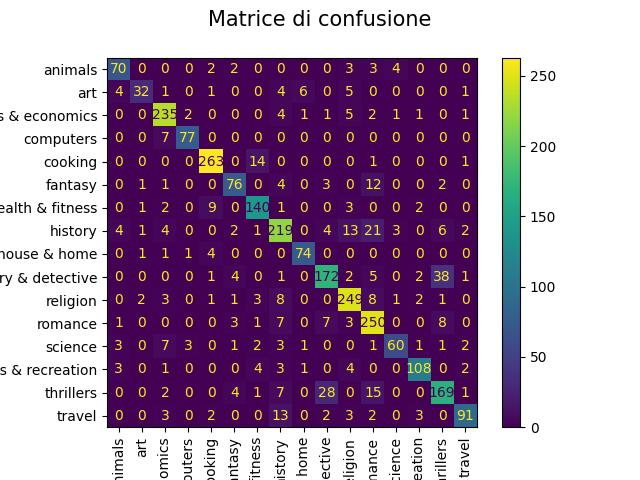
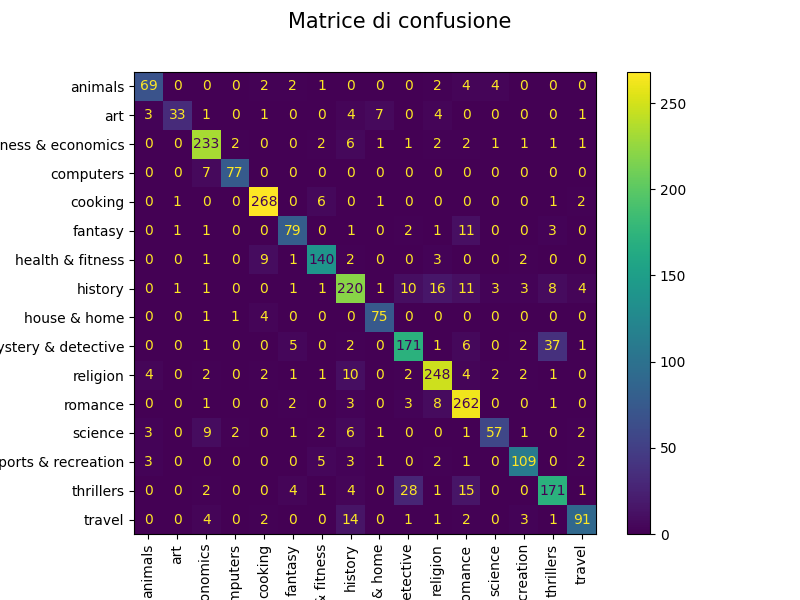
Creato lo script per la demo dei modelli di classificazione

diff --git a/mainDemo.py b/mainDemo.py
@@ -1,0 +1,55 @@
+import pandas as pd
+
+from os import listdir
+from re import sub
+from joblib import load
+
+modelNames = listdir("Models")  # Recupero i nomi dei modelli precedentemente addestrati e serializzati
+modelNames = [sub(r"\.joblib", "", modelName) for modelName in modelNames]
+
+if len(modelNames) == 0:
+    exit("Non sono disponibili modelli di classificazione addestrati")
+
+
+print("Scegliere tra uno dei seguenti modelli addestrati:")
+for modelName in modelNames:
+    print(modelName)
+
+while True:     # Ciclo di richiesta input del giusto nome del modello da utilizzare
+    selection = input("\nNome del modello scelto: ")
+    if selection in modelNames:
+        break
+    else:
+        print("Il nome indicato non è presente nell'elenco riportato")
+
+
+while True:  # Ciclo di richiesta input del numero di libri che si vuole predirre
+    try:
+        rows = int(input("\nIndicare il numero di libri che si intende inserire: "))
+
+        if rows <= 0:
+            print("Indicare un valore superiore o uguale a 1")
+        else:
+            break
+    except ValueError:
+        print("Indicare un numero intero superiore o uguale a 1")
+
+titles = []
+descriptions = []
+authors = []
+for i in range(rows):
+    print(f"\nLibro {i+1}")
+    titles.append(input("Titolo: "))
+    descriptions.append(input("Descrizione: "))
+    authors.append(input("Autori (separati da virgola): "))
+
+print("\nCalcolo delle predizioni...")
+model = load(f"Models/{selection}.joblib")  # Recupero il modello serializzato indicato
+
+toPredict = pd.DataFrame(data = {"Title" : titles, "Description": descriptions, "Authors": authors})
+
+predictions = model.predict(toPredict)
+
+print("\nPredizioni:")
+for index, prediction in enumerate(predictions):
+    print(f"{titles[index]} -> {prediction}")

diff --git a/dataModelling.py b/dataModelling.py
@@ -92,16 +92,16 @@ def trainClassificator(X_train, Y_train, model = "LinearSVC", findBestEstimator 
 
     match model:    # A seconda del modello scelto, instanzio l'opportuna pipeline
         case "LogisticRegression":
-            modelPipe = Pipeline([('transformer', colTransformer), ('clf', LogisticRegression(max_iter=1000))])
+            modelPipe = Pipeline([('transformer', colTransformer), ('clf', LogisticRegression(max_iter=2000))])
 
         case "SGDClassifier":
-            modelPipe = Pipeline([('transformer', colTransformer), ('clf', SGDClassifier())])
+            modelPipe = Pipeline([('transformer', colTransformer), ('clf', SGDClassifier(max_iter=2000))])
 
         case "MultinomialNB":
             modelPipe = Pipeline([('transformer', colTransformer), ('clf', MultinomialNB())])
 
         case "LinearSVC":
-            modelPipe = Pipeline([('transformer', colTransformer), ('clf', LinearSVC(dual="auto"))])
+            modelPipe = Pipeline([('transformer', colTransformer), ('clf', LinearSVC(dual="auto", max_iter=2000))])
 
         case "ComplementNB":
             modelPipe = Pipeline([('transformer', colTransformer), ('clf', ComplementNB())])

diff --git a/dataPreparation.py b/dataPreparation.py
@@ -38,7 +38,7 @@ def cleanData(dataframe, des_threshold = 40):
 
 def renameCategories(dataframe, replacementList):
     """
-        Funzione che, per mezzo di una lista di riniminazioni, rimpiazza le categorie indicate con i nomi specificati
+        Funzione che, per mezzo di una lista di rinominazioni, rimpiazza le categorie indicate con i nomi specificati
 
         Parametri:
             - dataframe, dataframe su cui effettuare l'operazione
